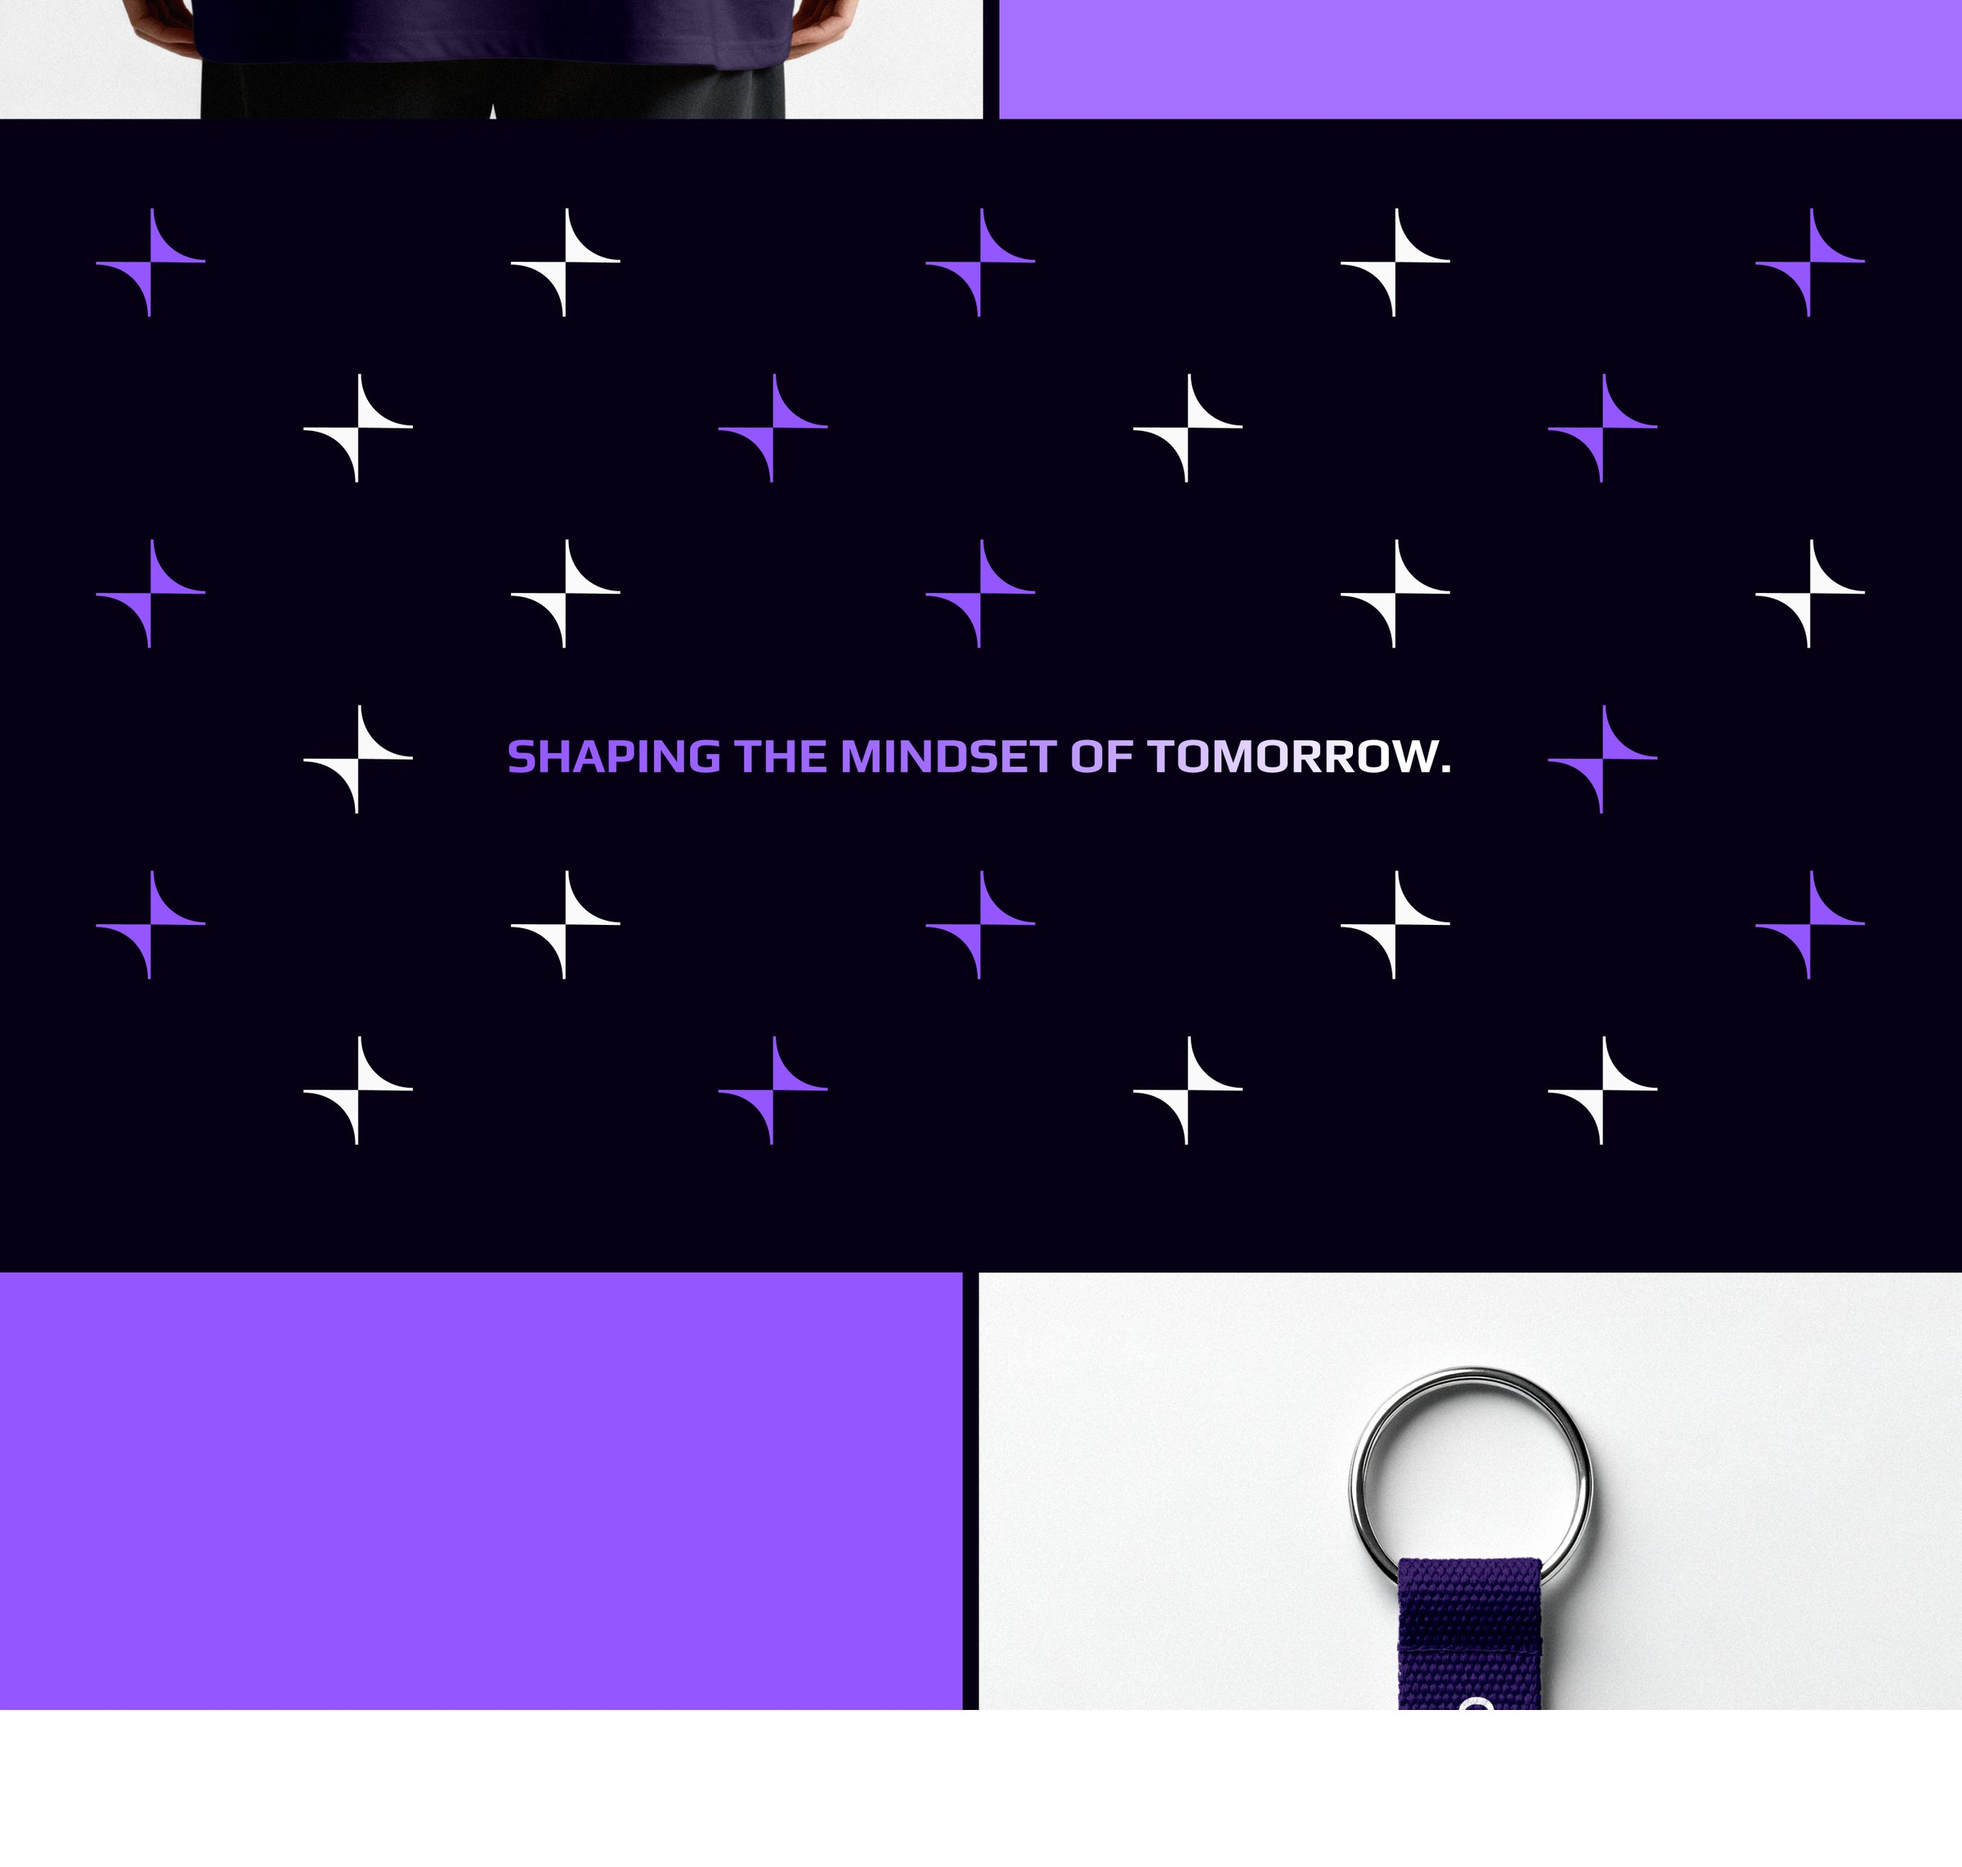
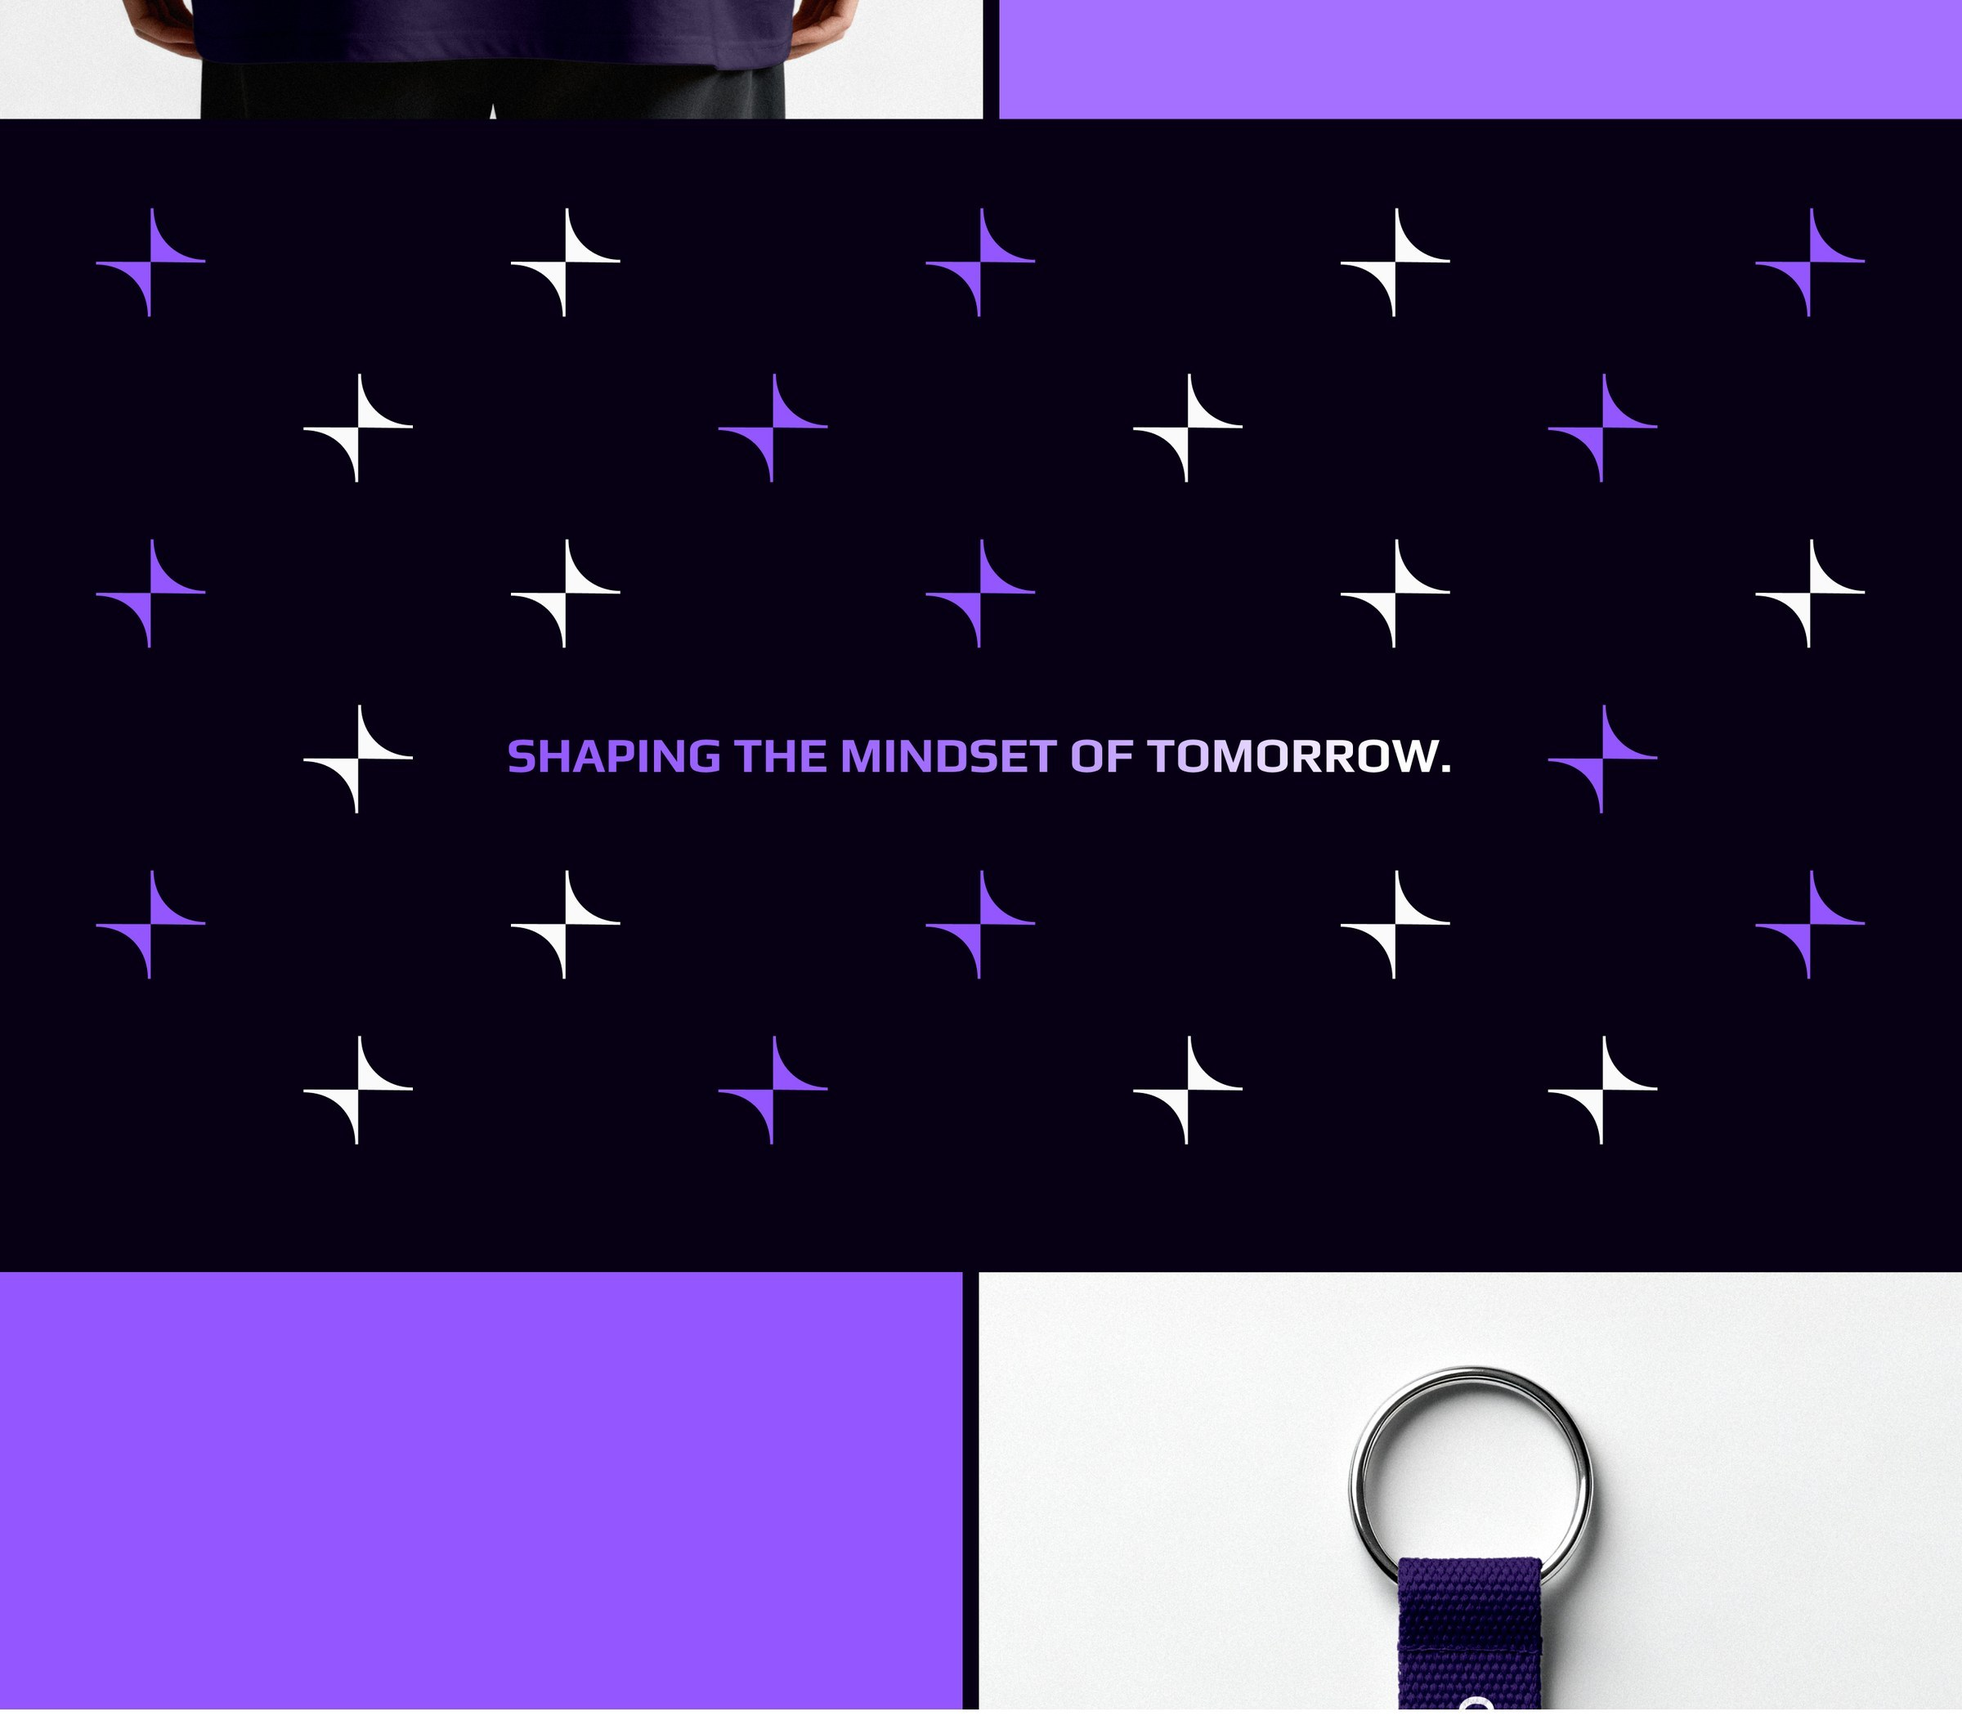
Stemio: убрана пустая белая полоса в конце кейса (обрезал sb-7, удалил sb-8)

diff --git a/projects.js b/projects.js
@@ -263,8 +263,7 @@ window.PROJECTS = {
       { bleed: "assets/sb-4.jpg?v=4" },
       { bleed: "assets/sb-5.jpg?v=4" },
       { bleed: "assets/sb-6.jpg?v=4" },
-      { bleed: "assets/sb-7.jpg?v=4" },
-      { bleed: "assets/sb-8.jpg?v=4" },
+      { bleed: "assets/sb-7.jpg?v=5" },
     ],
   },
 

diff --git a/case.html b/case.html
@@ -46,7 +46,7 @@
   </button>
 
   <script src="https://cdn.jsdelivr.net/npm/lenis@1.1.14/dist/lenis.min.js"></script>
-  <script src="projects.js?v=135"></script>
+  <script src="projects.js?v=136"></script>
   <script src="case.js?v=67"></script>
   <script src="script.js?v=23"></script>
 </body>
